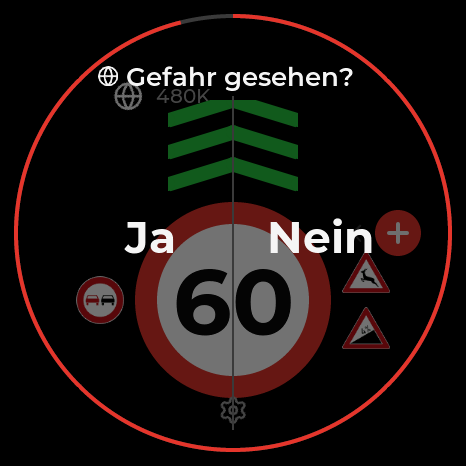
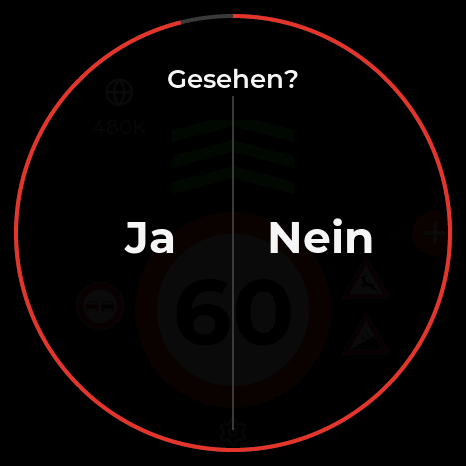
fix(ui): second on-hardware review — fixes + layout tweaks
- Settings would not open: the gear long-press never landed on the noisy
  panel. The gear is a plain tap now (still the only way in, so no stray
  swipe reaches Settings). Dropped the up-fling.
- Report-confirm bug: PillButton.flash_check() swapped the label to
  LV_SYMBOL_OK, which the Montserrat faces render as a tofu box and never
  restored — so a reported category showed an empty rectangle next time.
  Now it just flashes the pill green and restores.
- Melden: every category takes two taps to send (one arms, one confirms),
  not only the speed ones. More gap under the "Blitzer" / "Gefahr"
  headers; rows tightened to fit the round face.
- "+" and gear pushed out to the bezel; speed sign nudged down; the top
  chevron no longer clips (block moved down + shrunk).
- Status badge: peer count now stacked *under* the globe, not beside it.
- Confirm overlay: header is just "Gesehen?" (no globe), scrim ~96 %.
- Hazard overlay: icon sits left of centre with the distance bar right
  beside it (was icon top-centre / bar on the far flank).

Host tests 59/59 green under -Werror. Firmware builds (1.39 MB, 56 % free)
and runs the demo loop on hardware.

diff --git a/ui/screens/home_screen.cpp b/ui/screens/home_screen.cpp
@@ -21,7 +21,7 @@ HomeScreen::HomeScreen(lv_obj_t* parent) {
     set_bg(root_, tok::kBg);
 
     badge_ = std::make_unique<StatusBadge>(root_);
-    chevrons_ = std::make_unique<Chevrons>(root_, 130, 100);
+    chevrons_ = std::make_unique<Chevrons>(root_, 122, 84);
     sign_ = std::make_unique<SpeedSign>(root_, 196);
     left_ = std::make_unique<SignColumn>(root_, SignColumn::Side::Left, kSideSign, 3);
     right_ = std::make_unique<SignColumn>(root_, SignColumn::Side::Right, kSideSign, 3);
@@ -29,44 +29,26 @@ HomeScreen::HomeScreen(lv_obj_t* parent) {
 
     gear_ = lv_image_create(root_);
     lv_image_set_src(gear_, ui::assets::icon(ui::assets::Icon::Settings));
-    lv_image_set_scale(gear_, 30 * 256 / 40);
+    lv_image_set_scale(gear_, 32 * 256 / 40);
     lv_obj_set_style_image_recolor(gear_, tok::col(tok::kTextMuted), 0);
     lv_obj_set_style_image_recolor_opa(gear_, LV_OPA_COVER, 0);
-    // The gear is a deliberate target: press-and-hold to open Settings (a plain
-    // tap does nothing, to avoid opening it by accident in a moving car).
+    // Tap the gear to open Settings. It is the only way in (Settings is not a
+    // swipe tile), so a stray vertical swipe can't land there by accident.
     lv_obj_add_flag(gear_, LV_OBJ_FLAG_CLICKABLE);
-    lv_obj_set_ext_click_area(gear_, 18);
+    lv_obj_set_ext_click_area(gear_, 26);
     lv_obj_add_event_cb(
         gear_,
         [](lv_event_t* e) {
             auto* self = static_cast<HomeScreen*>(lv_event_get_user_data(e));
             if (self->settings_cb_) self->settings_cb_();
         },
-        LV_EVENT_LONG_PRESSED, this);
+        LV_EVENT_CLICKED, this);
 
-    // A strong upward fling anywhere on Home also opens Settings; a light drag
-    // just rubber-bands back (Settings is not a swipe tile). Children bubble the
-    // gesture up to this root.
-    for (lv_obj_t* c : {badge_->root(), chevrons_->root(), sign_->root(),
-                        left_->root(), right_->root()}) {
-        lv_obj_add_flag(c, LV_OBJ_FLAG_GESTURE_BUBBLE);
-    }
-    lv_obj_add_event_cb(
-        root_,
-        [](lv_event_t* e) {
-            auto* self = static_cast<HomeScreen*>(lv_event_get_user_data(e));
-            if (lv_indev_get_gesture_dir(lv_indev_active()) == LV_DIR_TOP &&
-                self->settings_cb_) {
-                self->settings_cb_();
-            }
-        },
-        LV_EVENT_GESTURE, this);
-
-    place_center(badge_->root(), 128, 96);
-    place_center(chevrons_->root(), 233, 150);
-    place_center(sign_->root(), 233, 300);
-    plus_->set_center(398, 233);
-    place_center(gear_, 233, 410);
+    place_center(badge_->root(), 112, 92);
+    place_center(chevrons_->root(), 233, 162);
+    place_center(sign_->root(), 233, 310);
+    plus_->set_center(435, 233);
+    place_center(gear_, 233, 432);
 
     set_state(state_);
 }
@@ -98,12 +80,12 @@ void HomeScreen::set_state(const core::DisplayState& s) {
     left_->set(s.leftSigns);
     right_->set(s.rightSigns);
 
-    place_center(sign_->root(), 233, 300);
-    place_center(chevrons_->root(), 233, shown ? 150 : 233);
+    place_center(sign_->root(), 233, 310);
+    place_center(chevrons_->root(), 233, shown ? 162 : 240);
     // Columns flank the sign, vertically centred on it and pulled well inside the
     // round bezel.
-    place_center(left_->root(), 100, 300);
-    place_center(right_->root(), 366, 300);
+    place_center(left_->root(), 100, 306);
+    place_center(right_->root(), 366, 306);
 }
 
 }  // namespace ui

diff --git a/ui/screens/melden_screen.cpp b/ui/screens/melden_screen.cpp
@@ -21,12 +21,13 @@ struct MeldenScreen::Entry {
 };
 
 namespace {
-constexpr int kColLeftX = 120;
-constexpr int kColRightX = 330;
-constexpr int kPillW = 140;
-constexpr int kPillH = 42;
-constexpr int kRow0 = 118;
-constexpr int kRowGap = 44;
+constexpr int kColLeftX = 119;
+constexpr int kColRightX = 327;
+constexpr int kPillW = 134;
+constexpr int kPillH = 40;
+constexpr int kHeaderY = 76;
+constexpr int kRow0 = 130;   // extra breathing room under the column headers
+constexpr int kRowGap = 42;
 }  // namespace
 
 MeldenScreen::MeldenScreen(lv_obj_t* parent) {
@@ -38,28 +39,28 @@ MeldenScreen::MeldenScreen(lv_obj_t* parent) {
     lv_label_set_text(title, i18n::t(i18n::Str::ReportTitle));
     lv_obj_set_style_text_font(title, font::title(), 0);
     lv_obj_set_style_text_color(title, tok::col(tok::kTextPrimary), 0);
-    place_center(title, 233, 50);
+    place_center(title, 233, 46);
 
     // Divider
     lv_obj_t* div = lv_obj_create(root_);
     lv_obj_remove_style_all(div);
-    lv_obj_set_size(div, 1, 286);
+    lv_obj_set_size(div, 1, 292);
     set_bg(div, tok::kHairline);
     lv_obj_set_style_bg_opa(div, LV_OPA_40, 0);
-    lv_obj_align(div, LV_ALIGN_TOP_MID, 0, 78);
+    lv_obj_align(div, LV_ALIGN_TOP_MID, 0, 74);
 
     if (core::CategoryRegistry::speedcam_enabled()) {
         lv_obj_t* h1 = lv_label_create(root_);
         lv_label_set_text(h1, i18n::column_title(core::HazardGroup::SpeedCamera));
         lv_obj_set_style_text_font(h1, font::small(), 0);
         lv_obj_set_style_text_color(h1, tok::col(tok::kTextMuted), 0);
-        place_center(h1, kColLeftX, 88);
+        place_center(h1, kColLeftX, kHeaderY);
     }
     lv_obj_t* h2 = lv_label_create(root_);
     lv_label_set_text(h2, i18n::column_title(core::HazardGroup::GeneralHazard));
     lv_obj_set_style_text_font(h2, font::small(), 0);
     lv_obj_set_style_text_color(h2, tok::col(tok::kTextMuted), 0);
-    place_center(h2, kColRightX, 88);
+    place_center(h2, kColRightX, kHeaderY);
 
     int rowL = 0, rowR = 0;
     for (const core::Category* c = core::CategoryRegistry::begin();
@@ -122,23 +123,20 @@ void MeldenScreen::reset(int last_speed_kmh, bool use_mph) {
 }
 
 void MeldenScreen::select(core::HazardType type) {
-    const core::Category* c = core::CategoryRegistry::find(type);
-
-    // Second tap on an already-selected speed category = confirm with the slider value.
-    if (selected_ && *selected_ == type && c && c->needs_speed) {
+    // Second tap on the already-selected pill = confirm and send. Applies to
+    // every category, not just the speed ones — one tap arms, one tap sends.
+    if (selected_ && *selected_ == type) {
         submit_selected();
         return;
     }
 
+    const core::Category* c = core::CategoryRegistry::find(type);
     selected_ = type;
     for (auto& e : entries_) e.pill->set_selected(e.type == type);
 
     const bool needs_speed = c && c->needs_speed;
     if (needs_speed) seed_slider();   // start from the current limit every time
     slider_->set_visible(needs_speed);
-
-    // Categories without a speed submit immediately.
-    if (!needs_speed) submit_selected();
 }
 
 void MeldenScreen::submit_selected() {

diff --git a/ui/overlays/hazard_overlay.cpp b/ui/overlays/hazard_overlay.cpp
@@ -12,10 +12,10 @@ namespace ui {
 namespace {
 constexpr int kIconAssetPx = 40;
 constexpr int kSignAssetPx = 64;
-constexpr int kIconBox = 88;
-// The icon sits above the speed sign, where the chevrons are (hidden during a hazard).
-constexpr int kIconCx = 233;
-constexpr int kIconCy = 128;
+constexpr int kIconBox = 84;
+// Icon left-of-centre above the speed sign; the distance bar sits just right of it.
+constexpr int kIconCx = 198;
+constexpr int kIconCy = 150;
 
 void blink_opa_cb(void* obj, int32_t v) {
     lv_obj_set_style_opa(static_cast<lv_obj_t*>(obj), static_cast<lv_opa_t>(v), 0);
@@ -35,10 +35,9 @@ HazardOverlay::HazardOverlay(lv_obj_t* parent) {
     lv_obj_set_style_image_recolor_opa(icon_, LV_OPA_COVER, 0);
     place_center(icon_, kIconCx, kIconCy);
 
-    // Distance bar: left flank (the sign columns are hidden during a hazard),
-    // level with the speed sign, clear of the "+" button on the right.
-    bar_ = new DistanceBar(root_, 16, 128);
-    lv_obj_align(bar_->root(), LV_ALIGN_LEFT_MID, 52, -6);
+    // Distance bar: right next to the icon, above the speed sign.
+    bar_ = new DistanceBar(root_, 16, 104);
+    lv_obj_align(bar_->root(), LV_ALIGN_TOP_LEFT, 244, 98);
 }
 
 HazardOverlay::~HazardOverlay() {

diff --git a/ui/overlays/confirm_overlay.cpp b/ui/overlays/confirm_overlay.cpp
@@ -1,6 +1,5 @@
 #include "ui/overlays/confirm_overlay.h"
 
-#include "ui/assets/icons/icons.h"
 #include "ui/i18n/i18n.h"
 #include "ui/theme/fonts.h"
 #include "ui/theme/tokens.h"
@@ -19,18 +18,12 @@ ConfirmOverlay::ConfirmOverlay(lv_obj_t* parent) {
     lv_obj_add_flag(root_, LV_OBJ_FLAG_HIDDEN);
     lv_obj_add_flag(root_, LV_OBJ_FLAG_CLICKABLE);   // modal: swallow taps outside the buttons
 
-    // Header: globe + "Gefahr gesehen?"
-    lv_obj_t* g = lv_image_create(root_);
-    lv_image_set_src(g, ui::assets::icon(ui::assets::Icon::Globe));
-    lv_image_set_scale(g, 22 * 256 / 40);
-    lv_obj_set_style_image_recolor(g, tok::col(tok::kTextPrimary), 0);
-    lv_obj_set_style_image_recolor_opa(g, LV_OPA_COVER, 0);
+    // Header — just the question, no icon.
     lv_obj_t* q = lv_label_create(root_);
     lv_label_set_text(q, i18n::t(i18n::Str::ConfirmQuestion));
     lv_obj_set_style_text_font(q, font::title(), 0);
     lv_obj_set_style_text_color(q, tok::col(tok::kTextPrimary), 0);
-    place_center(q, 240, 76);
-    place_center(g, 240 - (lv_obj_get_width(q) / 2) - 18, 76);
+    place_center(q, 233, 78);
 
     // Divider
     lv_obj_t* div = lv_obj_create(root_);

diff --git a/ui/widgets/pill_button.cpp b/ui/widgets/pill_button.cpp
@@ -93,13 +93,17 @@ void PillButton::set_enabled(bool on) {
 }
 
 void PillButton::flash_check() {
-    lv_obj_add_flag(img_, LV_OBJ_FLAG_HIDDEN);
-    lv_label_set_text(label_, LV_SYMBOL_OK);
-    lv_obj_set_style_text_font(label_, &lv_font_montserrat_28, 0);
+    // Brief green confirmation flash, then back to the resting look. (Don't swap
+    // in LV_SYMBOL_OK — the Montserrat faces have no FontAwesome glyph, so it
+    // renders as a tofu box and never gets restored.)
+    lv_obj_set_style_bg_color(btn_, tok::col(tok::kClearGreen), 0);
+    lv_obj_set_style_border_opa(btn_, LV_OPA_TRANSP, 0);
+    lv_obj_set_style_text_color(label_, tok::col(tok::kBg), 0);
+    if (icon_recolor_) lv_obj_set_style_image_recolor(img_, tok::col(tok::kBg), 0);
     lv_timer_t* t = lv_timer_create(
         [](lv_timer_t* tm) {
             auto* self = static_cast<PillButton*>(lv_timer_get_user_data(tm));
-            lv_obj_set_style_text_font(self->label_, font::label(), 0);
+            self->set_selected(false);
             lv_timer_delete(tm);
         },
         600, this);

diff --git a/ui/theme/tokens.h b/ui/theme/tokens.h
@@ -42,8 +42,8 @@ inline constexpr int  kRadiusMd    = 20;
 inline constexpr int  kPillRadius  = 999;   // stadium
 
 // ── Opacity ─────────────────────────────────────────────────────────────────
-inline constexpr int  kScrimOpaPct       = 55;   // confirm prompt (modal)
-inline constexpr int  kHazardScrimOpaPct = 72;   // hazard overlay (non-modal, but must stand out)
+inline constexpr int  kScrimOpaPct       = 96;   // confirm prompt (modal) — all but opaque
+inline constexpr int  kHazardScrimOpaPct = 74;   // hazard overlay (non-modal, but must stand out)
 inline constexpr int  kBlinkLowOpaPct    = 35;   // hazard icon blink floor
 inline constexpr int  kSwipeHintOpaPct   = 45;
 

diff --git a/ui/widgets/status_badge.cpp b/ui/widgets/status_badge.cpp
@@ -28,9 +28,10 @@ void abbrev(uint32_t n, char* out, size_t cap) {
 
 StatusBadge::StatusBadge(lv_obj_t* parent) {
     root_ = make_layer(parent);
-    lv_obj_set_flex_flow(root_, LV_FLEX_FLOW_ROW);
-    lv_obj_set_flex_align(root_, LV_FLEX_ALIGN_START, LV_FLEX_ALIGN_CENTER, LV_FLEX_ALIGN_CENTER);
-    lv_obj_set_style_pad_column(root_, 8, 0);
+    // Globe on top, the peer count stacked underneath it.
+    lv_obj_set_flex_flow(root_, LV_FLEX_FLOW_COLUMN);
+    lv_obj_set_flex_align(root_, LV_FLEX_ALIGN_CENTER, LV_FLEX_ALIGN_CENTER, LV_FLEX_ALIGN_CENTER);
+    lv_obj_set_style_pad_row(root_, 2, 0);
     lv_obj_set_size(root_, LV_SIZE_CONTENT, LV_SIZE_CONTENT);
 
     icon_ = lv_image_create(root_);

diff --git a/test/i18n_test.cpp b/test/i18n_test.cpp
@@ -21,7 +21,7 @@ TEST_CASE("known strings are what the sketch shows") {
     CHECK(std::string(t(Str::ReportTitle)) == "Melden");
     CHECK(std::string(t(Str::Yes)) == "Ja");
     CHECK(std::string(t(Str::No)) == "Nein");
-    CHECK(std::string(t(Str::ConfirmQuestion)) == "Gefahr gesehen?");
+    CHECK(std::string(t(Str::ConfirmQuestion)) == "Gesehen?");
     CHECK(std::string(t(Str::CatTraffic)) == "Stau");
     // umlauts survive as UTF-8
     CHECK(std::string(t(Str::CatTrailerCam)) == "Anh\xC3\xA4nger");

diff --git a/ui/i18n/i18n_de.cpp b/ui/i18n/i18n_de.cpp
@@ -19,7 +19,7 @@ constexpr const char* kDe[] = {
     "Baustelle",
     "Panne",
     "Hindernis",
-    "Gefahr gesehen?",
+    "Gesehen?",
     "Ja",
     "Nein",
     "Settings",

diff --git a/docs/ui-spec.md b/docs/ui-spec.md
@@ -25,13 +25,13 @@ mark is drawn.
 
 | Element | Centre | Size | Notes |
 |---|---|---|---|
-| Status badge | globe at (96, 92); label to its right | globe 30 | globe + abbreviated `networkPeers` ("480K"). Label 20 px, muted. |
+| Status badge | (112, 92) | globe 30 | globe on top, abbreviated `networkPeers` ("480K", 14 px muted) **stacked underneath** it. |
 | Direction chevrons | (233, 150) *(168 in the sketch; raised to clear the sign)* | block 130 × 100 | 3 stacked chevrons, bright green, only when `directionArrows` and no hazard. |
-| Speed-limit sign | (233, 300) | Ø 196 | white disc, ~22 px red ring, ~92 px bold digits. Drawn (border + label), not a bitmap. Fades out when `speedLimit` absent. |
+| Speed-limit sign | (233, 310) | Ø 196 | white disc, ~22 px red ring, ~92 px bold digits. Drawn (border + label), not a bitmap. Fades out when `speedLimit` absent. |
 | Left sign column | centred on the speed sign at x ≈ 100 | signs ~48 px | `DisplayState.leftSigns` (VzNr codes), by convention prohibitions (276 = Überholverbot …). Up to 3; the box shrinks to the count so a single sign sits level with the speed sign, not slid into the round bezel. |
 | Right sign column | centred on the speed sign at x ≈ 366 | signs ~48 px, **same size as left** | `DisplayState.rightSigns`, by convention danger signs (142-10 Wildwechsel, 110-4 Steigung …). Up to 3. |
-| "+" button | (398, 233) | Ø 46 | red circle, white plus. Tap → Melden. A ~45 %-opacity "←" swipe hint fades after a few seconds. |
-| Settings gear | (233, 410) | 30 | **press-and-hold** (long-press) → Settings. A plain tap does nothing (avoids opening Settings by accident in a moving car). |
+| "+" button | (435, 233) | Ø 46 | red circle, white plus, hard against the right bezel. Tap → Melden. A ~45 %-opacity "←" swipe hint fades after a few seconds. |
+| Settings gear | (233, 432) | 32 | **tap** → Settings. It is the only way in (Settings is not a swipe tile), so a stray vertical swipe can't land there. |
 
 When `speedLimit` is absent: the sign fades out and the chevrons move to the vertical centre (233).
 While a hazard overlay is up, both sign columns hide so the hazard icon / distance bar own the flanks.
@@ -45,13 +45,13 @@ face greys slightly (`tok::kSignStale`) — just enough to read "not live".
 ## 5.3 Hazard / speed-camera nearby (overlay — M4)
 
 A layer **on the Home tile** (slides away with Home; never shows on Melden). It dims the page
-with a ~72 % black scrim so it clearly stands out, but stays non-modal — touches pass through and
+with a ~74 % black scrim so it clearly stands out, but stays non-modal — touches pass through and
 navigation still works.
 
 | Element | Position | Notes |
 |---|---|---|
-| Warn icon | top-centre (233, 128), ~88 px | the **per-category** visual from `category_visual()` — an StVO sign where one fits (Stau, Glätte, Rotlicht …), else a category glyph (camera, radar, caravan, wrench …), recoloured red. **Blinks** 100 % ↔ 35 % at 1 Hz, ease-in-out. Never a one-size-fits-all "!". |
-| Distance bar | vertical, left flank (x ≈ 52), level with the speed sign | fills from the bottom as the distance shrinks; "600m" label beside it. The sign columns hide while it is up. |
+| Warn icon | left of centre, above the sign (180, 150), ~84 px | the **per-category** visual from `category_visual()` — an StVO sign where one fits (Stau, Glätte, Rotlicht …), else a category glyph (camera, radar, caravan, wrench …), recoloured red. **Blinks** 100 % ↔ 35 % at 1 Hz, ease-in-out. Never a one-size-fits-all "!". |
+| Distance bar | vertical, **just right of the icon** (x ≈ 244), above the sign | fills from the bottom as the distance shrinks; "600m" label beside it. The sign columns hide while it is up. |
 | Speed sign | as Home | shows `hazardSpeedLimit` if set, else `speedLimit`; soft red glow ring on change; number crossfades ~180 ms. |
 | Chevrons | — | hidden while the hazard is active. |
 
@@ -64,41 +64,35 @@ overlay is suppressed entirely.
 
 ## 5.4 Melden (swipe left, or "+") — M3 ✅
 
-- Title "Melden" italic, (233, 60), 22 px.
-- Vertical divider at x = 233, y 88–400, 1 px, ~40 % opacity.
-- Column headers underlined, 18 px: "Blitzer" (140, 104), "Gefahr" (326, 104).
-- **Blitzer** pills (Ø ~74, staggered along the circle): Fest (100, 152), Mobil (168, 196),
-  Anhänger (92, 244), Rotlicht (170, 290), Abstand (100, 338).
-- **Gefahr** pills: Stau (300, 148), Glätte (382, 152), Unfall (340, 210), Baustelle (300, 272),
-  Panne (384, 272), Hindernis (348, 336).
+- Title "Melden" italic, (233, 46), 22 px.
+- Two columns of category pills (~134 × 40), data-driven from `core::CategoryRegistry`:
+  "Blitzer" (x 119) and "Gefahr" (x 327). Column headers at y 76, first pill row at y 130
+  (clear gap under the headers), row pitch 42.
+- **Two taps to send, every category.** First tap arms the pill (highlighted); a second tap on
+  the same pill confirms → ~600 ms green flash → `ReportSubmitted` → back to Home. Tapping a
+  different pill just moves the selection.
 - **Speed slider** (horizontal, centred (233, 406), ~212 px wide, label above): parallel to the
-  pill rows and clear below them. Visible only when the selected category `needs_speed()`
+  pill rows and clear below them. Visible only when the armed category `needs_speed()`
   (Mobil / Anhänger / Abstand). **Starts at the current speed limit every time** it appears — the
   reporter only nudges it on deviation. Step 10, range 30–130 km/h (mph equivalent when `useMph`).
   Sent to the app rounded to 5 km/h.
-- Flow: tap category → ~600 ms check animation → `ReportSubmitted` → back to Home. No input for
-  15 s → back to Home. The "+" on Home also sends `ReportPressed`.
+- No input for 15 s → back to Home. The "+" on Home also sends `ReportPressed`.
 - With `CONFIG_FEATURE_SPEEDCAM` off: the "Blitzer" column and its pills are absent; only "Gefahr".
 
-## 5.5 Gefahr bestätigen (modal overlay) — M4
+## 5.5 Gesehen? (modal overlay) — M4
 
-- Home stays visible, dimmed by a ~55 % black scrim.
-- Header: small globe + "Gefahr gesehen?", (233, 60), 22 px.
-- Two large hit areas split by a vertical line at x = 233 (y 96–430): "Ja" (150, 236),
-  "Nein" (320, 236), ~44 px.
-- Thin countdown ring on the outer edge over 15 s.
+- Home is dimmed by a ~96 % black scrim — all but opaque.
+- Header: just "**Gesehen?**", (233, 78), 22 px. No icon.
+- Two large hit areas split by a vertical line at x = 233: "Ja" (150, 236), "Nein" (320, 236).
+- Thin countdown ring just inside the round bezel over the prompt timeout (default 15 s).
 - Answer or timeout → `ConfirmResponse` / silent cancel → back to Home. Navigation is locked while
   this overlay is up.
 
 ## 5.6 Settings — M3
 
-**Not a swipe tile.** Settings is a full-screen layer reached only by a deliberate gesture, so a
-stray touch in a moving car can't open it:
-
-- **press-and-hold the Home gear** (long-press), or
-- a **strong upward fling** on Home (a light drag just rubber-bands back).
-
-Dismiss with the **down-chevron at the top** or a **downward swipe** → back to Home.
+**Not a swipe tile** — so a stray vertical swipe in a moving car can't open it. Reached by a
+**tap on the Home gear** (bottom centre); that is the only way in. Dismiss with the **down-chevron
+at the top** or a **downward swipe** → back to Home.
 
 - Header: down-chevron (42), "Settings" title (233, 72).
 - Round buttons Ø ~104 (no "Tag/Nacht" — single theme). "Handy verbinden" (162, 194),

diff --git a/docs/screenshots/README.md b/docs/screenshots/README.md
@@ -5,11 +5,11 @@ artifact on every run.
 
 | File | Scenario | vs `docs/sketch.jpg` |
 |---|---|---|
-| `home.png` | speed 60, chevrons, overtaking-ban (left), Wildwechsel + Steigung (right) | Layout matches: globe+peers top-left, chevrons, centred sign, "+" right, gear bottom. Left/right sign columns are the agreed extension of the sketch (prohibitions left, danger signs right, same size). |
+| `home.png` | speed 60, chevrons, overtaking-ban (left), Wildwechsel + Steigung (right) | Layout matches: globe with peer count stacked under it (top-left), chevrons, centred sign, "+" hard right, gear bottom. Left/right sign columns are the agreed extension of the sketch (prohibitions left, danger signs right, same size). |
 | `no-internet.png` | link up, app offline | Globe → "no signal" glyph, peer count hidden. Values from `OfflineCache`. |
-| `hazard.png` | mobile camera, 600 m, limit 50 | Blinking type icon where the chevrons were, vertical distance bar + "600m", sign shows `hazardSpeedLimit`. |
-| `melden.png` | report screen | Two data-driven columns (Blitzer / Gefahr) from `CategoryRegistry`. Each pill shows a per-category visual — the real StVO sign where one exists (Stau 124, Glätte 101-51, Baustelle 123, …), else a Lucide glyph (camera / radar / caravan / arrow / wrench). |
-| `confirm.png` | `confirmPromptActive` | 55 % scrim over Home, "Gefahr gesehen?", Ja/Nein split, outer countdown ring. Matches the sketch's modal. |
+| `hazard.png` | mobile camera, 600 m, limit 50 | Per-category blinking icon left of centre + distance bar right next to it, ~74 % scrim, sign shows `hazardSpeedLimit`. |
+| `melden.png` | report screen | Two data-driven columns (Blitzer / Gefahr) from `CategoryRegistry`. Each pill shows a per-category visual — the real StVO sign where one exists (Stau 124, Glätte 101-51, Baustelle 123, …), else a Lucide glyph (camera / radar / caravan / arrow / wrench). Two taps to send. |
+| `confirm.png` | `confirmPromptActive` | ~96 % scrim over Home, "Gesehen?", Ja/Nein split, countdown ring inside the bezel. |
 | `settings.png` | settings tile | 3 round buttons (no "Tag/Nacht" — single dark theme), version/proto/link footer. |
 | `connect.png` | unbonded | "Verbinde dein Mobilgerät" + button; shown until first bond. |
 
